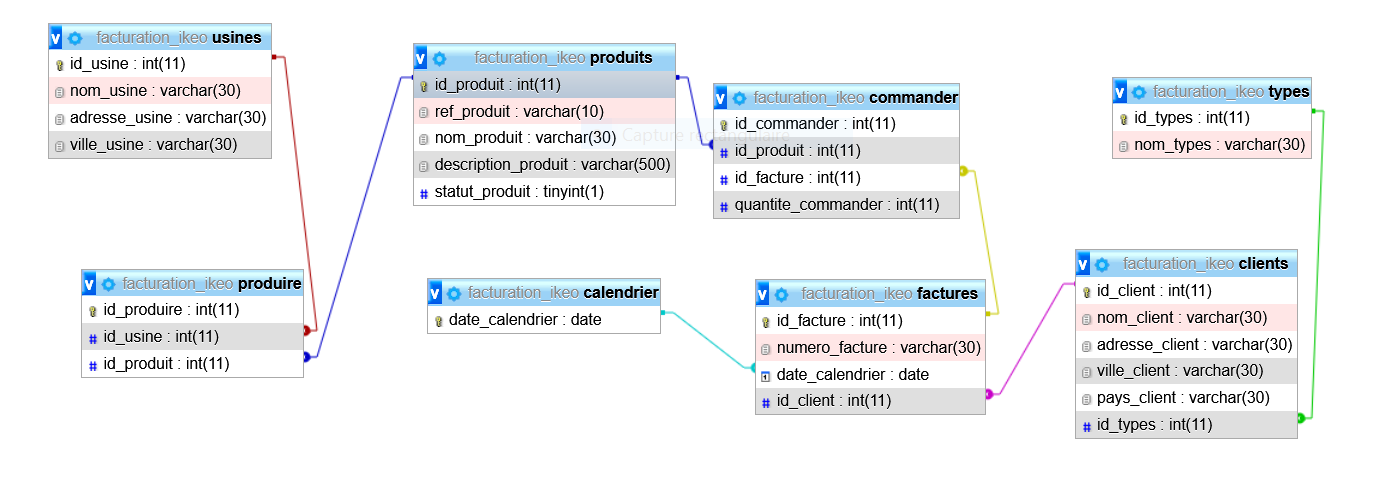
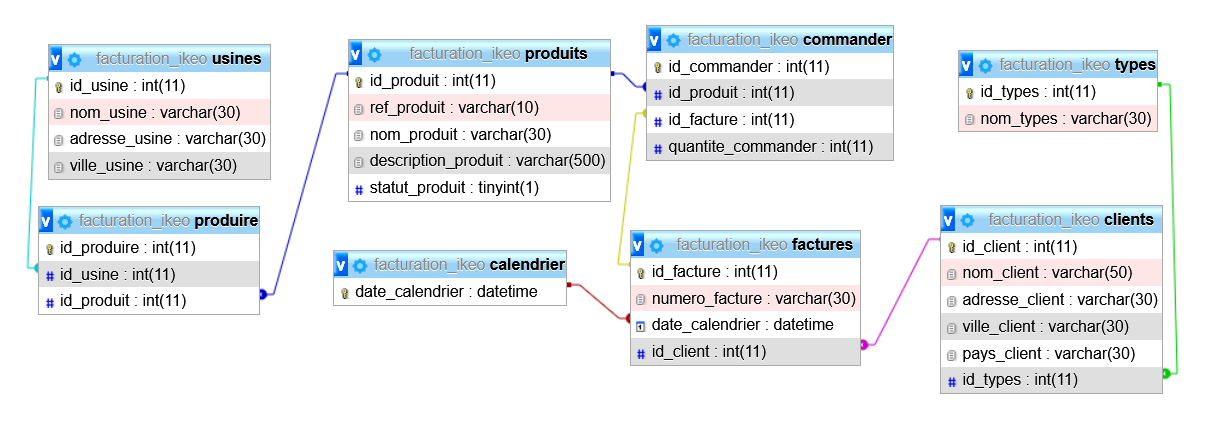
Avancement du rapport : - ajout des figures

diff --git a/Rapport/main.tex b/Rapport/main.tex
@@ -16,7 +16,7 @@
 
 % ################################
 % Package pour incorporer du code
-\usepackage{xcolor}
+\usepackage{xcolor,colortbl}
 \usepackage{listings}
 
 \definecolor{codegreen}{rgb}{0,0.6,0}
@@ -44,6 +44,20 @@
 \lstset{style=mystyle}
 
 %##################################
+
+% MLD
+%##################################
+
+\usepackage[normalem]{ulem}
+\newenvironment{mld}
+  {\par\begin{minipage}{\linewidth}\begin{tabular}{rp{0.7\linewidth}}}
+  {\end{tabular}\end{minipage}\par}
+\newcommand{\relat}[1]{\textsc{#1}}
+\newcommand{\attr}[1]{\emph{#1}}
+\newcommand{\prim}[1]{\uline{#1}}
+\newcommand{\foreign}[1]{\#\textsl{#1}}
+
+%####################################
 
 \begin{document}
 
@@ -79,6 +93,7 @@
 Sylvia \textsc{Penfeunteun} \\
 Hervé \textsc{Poirier}\\
 Thierry \textsc{Adam}\\
+Nathan \textsc{Faudeil}\\
 Fabio \textsc{Cassiano}
 \end{center}
 \end{minipage}
@@ -104,19 +119,99 @@ Fabio \textsc{Cassiano}
 
 \newpage
 
+\section{Règles de gestion}
+\begin{itemize}
+    \item Une usine fabrique plusieurs références et une référence peut être construite par plusieurs usines.
+    \item Une facture est destinée à un seul client, un client peut avoir plusieurs facutres.
+    \item Une facture peut avoir plusieurs produits et les produits apparaissent sur plusieurs factures.
+
+\end{itemize}
+
 \section{Dictionnaire des données}
 
+A partir des règles de gestion précédentes, ainsi que les différentes informations de l'entreprise, il nous a été possible de mettre en place le dictionnaire de données. Dans ce dictionnaire on retrouve :
+\begin{itemize}
+    \item le libellé de chaque élément de la base
+    \item la description correspondant à chaque libellé
+    \item le type de donnée : Alphabétique (A), Numérique (N), Alphanumérique (AN)
+    \item la taille possible de chaque élément
+    \item une remarque, si nécessaire.
+\end{itemize}
+
+\begin{table}[!htbp]
+\begin{tabular}{|lcccl|}
+\hline
+\multicolumn{1}{|l|}{\textbf{Libellé}}     & \multicolumn{1}{c|}{\textbf{Description}}        & \multicolumn{1}{c|}{\textbf{Type}} & \multicolumn{1}{c|}{\textbf{Taille}} & \multicolumn{1}{c|}{\textbf{Remarque}}          \\ \hline
+	
+\multicolumn{5}{|l|}{\textbf{Usines}}                                                                                                                                                               \\ \hline
+\multicolumn{1}{|l|}{id\_usine}            & \multicolumn{1}{c|}{Idetifiant de l'usine}       & \multicolumn{1}{c|}{N}             & \multicolumn{1}{c|}{11}              &                                                 \\ \hline
+\multicolumn{1}{|l|}{nom\_usine}           & \multicolumn{1}{c|}{Nom de l'usine}              & \multicolumn{1}{c|}{A}             & \multicolumn{1}{c|}{30}              &                                                 \\ \hline
+\multicolumn{1}{|l|}{adresse\_usine}       & \multicolumn{1}{c|}{Adresse de l'usine}          & \multicolumn{1}{c|}{A}             & \multicolumn{1}{c|}{50}              &                                                 \\ \hline
+\multicolumn{1}{|l|}{ville\_usine}         & \multicolumn{1}{c|}{Ville de l'usine}            & \multicolumn{1}{c|}{A}             & \multicolumn{1}{c|}{30}              &                                                 \\ \hline
+\multicolumn{5}{|l|}{\textbf{Clients}}                                                                                                                                                              \\ \hline
+\multicolumn{1}{|l|}{id\_client}           & \multicolumn{1}{c|}{Identifiant client}          & \multicolumn{1}{c|}{N}             & \multicolumn{1}{c|}{11}              &                                                 \\ \hline
+\multicolumn{1}{|l|}{nom\_client}          & \multicolumn{1}{c|}{Nom du client}               & \multicolumn{1}{c|}{A}             & \multicolumn{1}{c|}{50}              &                                                 \\ \hline
+\multicolumn{1}{|l|}{adresse\_client}      & \multicolumn{1}{c|}{Adresse du client}           & \multicolumn{1}{c|}{A}             & \multicolumn{1}{c|}{50}              &                                                 \\ \hline
+\multicolumn{1}{|l|}{ville\_client}        & \multicolumn{1}{c|}{Ville du client}             & \multicolumn{1}{c|}{A}             & \multicolumn{1}{c|}{30}              &                                                 \\ \hline
+\multicolumn{1}{|l|}{pays\_client}         & \multicolumn{1}{c|}{Pays du client}              & \multicolumn{1}{c|}{A}             & \multicolumn{1}{c|}{20}              & \multicolumn{1}{c|}{}                           \\ \hline
+\multicolumn{5}{|l|}{\textbf{Types}}                                                                                                                                                                \\ \hline
+\multicolumn{1}{|l|}{id\_type}             & \multicolumn{1}{c|}{Identifiant type}            & \multicolumn{1}{c|}{N}             & \multicolumn{1}{c|}{11}              &                                                 \\ \hline
+\multicolumn{1}{|l|}{nom\_type}            & \multicolumn{1}{c|}{Nom du types}                & \multicolumn{1}{c|}{A}             & \multicolumn{1}{c|}{30}              &                                                 \\ \hline
+\multicolumn{5}{|l|}{\textbf{Produits}}                                                                                                                                                             \\ \hline
+\multicolumn{1}{|l|}{id\_produit}          & \multicolumn{1}{c|}{Identifiant du produit}      & \multicolumn{1}{c|}{N}             & \multicolumn{1}{c|}{11}              &                                                 \\ \hline
+\multicolumn{1}{|l|}{ref\_produit}         & \multicolumn{1}{c|}{Référence du produit}        & \multicolumn{1}{c|}{AN}            & \multicolumn{1}{c|}{15}              &                                                 \\ \hline
+\multicolumn{1}{|l|}{nom\_produit}         & \multicolumn{1}{c|}{Nom du produit}              & \multicolumn{1}{c|}{A}             & \multicolumn{1}{c|}{50}              &                                                 \\ \hline
+\multicolumn{1}{|l|}{description\_produit} & \multicolumn{1}{c|}{Description du produit}      & \multicolumn{1}{c|}{A}             & \multicolumn{1}{c|}{50}              &                                                 \\ \hline
+\multicolumn{1}{|l|}{statut\_produit}      & \multicolumn{1}{c|}{Statut du produit}           & \multicolumn{1}{c|}{N}             & \multicolumn{1}{l|}{}                & \multicolumn{1}{c|}{booleen (abandonné ou pas)} \\ \hline
+\multicolumn{5}{|l|}{\textbf{Commander}}                                                                                                                                                            \\ \hline
+\multicolumn{1}{|l|}{id\_commander}        & \multicolumn{1}{c|}{Identifiant de la commandes} & \multicolumn{1}{c|}{N}             & \multicolumn{1}{c|}{11}              &                                                 \\ \hline
+\multicolumn{1}{|l|}{quantite\_commander}  & \multicolumn{1}{c|}{Quantité de la commande}     & \multicolumn{1}{c|}{N}             & \multicolumn{1}{c|}{11}              &                                                 \\ \hline
+\multicolumn{5}{|l|}{\textbf{Facture}}                                                                                                                                                              \\ \hline
+\multicolumn{1}{|l|}{id\_facture}          & \multicolumn{1}{c|}{Identifiant de la facture}   & \multicolumn{1}{c|}{N}             & \multicolumn{1}{l|}{}                &                                                 \\ \hline
+\multicolumn{1}{|l|}{numero\_facture}      & \multicolumn{1}{c|}{Numero de la facture}        & \multicolumn{1}{c|}{AN}            & \multicolumn{1}{l|}{}                &                                                 \\ \hline
+\multicolumn{5}{|l|}{\textbf{Calendrier}}                                                                                                                                                           \\ \hline
+\multicolumn{1}{|l|}{date\_calendrier}     & \multicolumn{1}{c|}{Date du calendrier}          & \multicolumn{1}{c|}{N}             & \multicolumn{1}{c|}{10}              & \multicolumn{1}{c|}{date, clé primaire}         \\ \hline
+\end{tabular}
+\caption{Dictionnaire des données correspondant système de facturation d'IKEO}
+\end{table}
 
 \section{Dépendances fonctionnelles}
 
 
+
 \section{Schéma entité-association}
 
+\begin{figure}[!htbp]
+    \centering
+    \includegraphics[width=\textwidth]{Rapport/Image/schema_EA.png}
+    \caption{Schéma entité-association pour le projet de facturation de l'entreprise IKEO}
+    \label{fig:schema_bdd}
+\end{figure}
     
 \section{MLD}
 
 
+\begin{mld}
+  \textbf{Produits} & (\prim{id\_produit}, \attr{ref\_produit}, \attr{nom\_produit}, \attr{description\_produit}, \attr{statut\_produit})\\
+  \textbf{Commander} & (\foreign{\prim{id\_produit}}, \foreign{\prim{id\_facture}}, \attr{id\_commander}, \attr{quantite\_commander})\\
+  \textbf{Factures} & (\prim{id\_facture}, \attr{numero\_facture}, \foreign{date\_calendrier}, \foreign{id\_client})\\
+  \textbf{Produire} & (\foreign{\prim{id\_usine}}, \foreign{\prim{id\_produit}})\\
+  \textbf{Usines} & (\prim{id\_usine}, \attr{nom\_usine}, \attr{adresse\_usine}, \attr{ville\_usine})\\
+  \textbf{Calendrier} & (\prim{date\_calendrier})\\
+  \textbf{Clients} & (\prim{id\_client}, \attr{nom\_client}, \attr{adresse\_client}, \attr{ville\_client}, \attr{pays\_client}, \foreign{id\_types})\\
+  \textbf{Types} & (\prim{id\_types}, \attr{nom\_types})\\
+\end{mld}
+
+\newpage
 \section{Schéma de la base créer}
+
+\begin{figure}[!htbp]
+    \centering
+    \includegraphics[width=\textwidth]{Rapport/Image/schema_bdd.PNG}
+    \caption{Schéma de la base de données créer sur MySQL.}
+    \label{fig:schema_bdd}
+\end{figure}
+
 
 \section{requête SQL}
 
